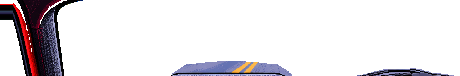
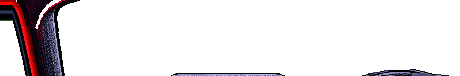
Fachos dos faróis do trânsito só na pista (não passam por paredes de túnel, outdoors e cenário), câmera acompanha subidas e descidas mais rápido, F4 sem resto do volante antigo no alto do painel
Claude-Session: https://claude.ai/code/session_01MLD9VR7gkmY4w6a9beZcp6

diff --git a/src/nightlight.ts b/src/nightlight.ts
@@ -514,7 +514,25 @@ function secondary(W: number, H: number, ox: number, oy: number, draw: (s: Canva
       t.setTransform(1, 0, 0, 1, 0, 0);
       t.globalCompositeOperation = 'source-over';
       t.clearRect(x0, y0, x1 - x0, y1 - y0);
-      beam(t, b);
+      // o facho só ilumina a pista (com um pouco do acostamento): numa curva o quadrilátero reto
+      // atravessaria paredes de túnel, guard-rails, outdoors e o cenário ao lado
+      if (roadPoly.length > 1) {
+        t.save();
+        t.beginPath();
+        for (let i = 0; i < roadPoly.length; i++) {
+          const q = roadPoly[i];
+          if (i) t.lineTo(q.x - q.w * 1.25 - ox, q.y - oy);
+          else t.moveTo(q.x - q.w * 1.25 - ox, q.y + 2 - oy);
+        }
+        for (let i = roadPoly.length - 1; i >= 0; i--) {
+          const q = roadPoly[i];
+          t.lineTo(q.x + q.w * 1.25 - ox, q.y + (i ? 0 : 2) - oy);
+        }
+        t.closePath();
+        t.clip();
+        beam(t, b);
+        t.restore();
+      } else beam(t, b);
       t.globalCompositeOperation = 'destination-out';
       for (const o of occluders) {
         if (o.idx > b.end) continue;
@@ -554,8 +572,10 @@ let sky: { x: number; y: number; r: number; floor: number; ridge?: { x0: number;
 export function setSkyLight(x: number, y: number, r: number, floor = Infinity, ridge?: { x0: number; ys: number[] }) {
   sky = { x, y, r, floor, ridge };
 }
-export function finishNight(c: CanvasRenderingContext2D, vp: { x: number; y: number; w: number; h: number; horizon: number; dash?: number }, strength: number, passers: Pass[], segLen: number, road: RoadPt[] = []) {
+let roadPoly: RoadPt[] = [];
+export function finishNight(c: CanvasRenderingContext2D, vp: { x: number; y: number; w: number; h: number; horizon: number; dash?: number }, strength: number, passers: Pass[], segLen: number, road: RoadPt[] = [], roadAll: RoadPt[] = road) {
   collecting = false;
+  roadPoly = roadAll;
   if (strength <= 0.02) {
     sky = null;
     carBeams.length = 0;

diff --git a/src/race.ts b/src/race.ts
@@ -534,11 +534,13 @@ export class Race {
     // no trecho mais perto): ao chegar numa crista ela já aponta para a descida, e não para o céu
     // olha bem pouco adiante (uns 6 segmentos, ~40 m, mais peso perto): a câmera só começa a
     // baixar quando a crista está logo ali, e acompanha a descida quando chega nela
+    // a janela cresce com a velocidade (~0,2 s à frente): rápido, a câmera chega na lombada a tempo
+    const nAhead = clamp(Math.round((this.speed * 0.2) / SEG_LEN), 6, 12);
     let ahead = 0, wsum = 0, far = 0;
-    for (let k = 1; k <= 6; k++) {
+    for (let k = 1; k <= nAhead; k++) {
       const sg = this.findSegment(this.position + k * SEG_LEN);
       const sk = (sg.p2.world.y - sg.p1.world.y) / SEG_LEN;
-      const wk = 1.25 - k / 6;
+      const wk = 1.25 - k / nAhead;
       ahead += sk * wk;
       wsum += wk;
       if (k >= 2 && k <= 5) far += sk / 4;
@@ -550,7 +552,7 @@ export class Race {
     // descida forte logo ali: aponta um pouco além dela (a pista não some embaixo do capô)
     if (far < ground) ground = lerp(ground, clamp(far, -0.8, 0), 0.35);
     const pitchTo = this.airborne ? fly * 0.3 + ground * 0.7 : ground;
-    this.pitch = lerp(this.pitch, pitchTo, Math.min(1, dt * (this.airborne ? 5 : 7)));
+    this.pitch = lerp(this.pitch, pitchTo, Math.min(1, dt * (this.airborne ? 6 : 12)));
     // ---- salto: o carro é um corpo com velocidade vertical própria. Segue o chão enquanto a
     // gravidade dá conta; num topo de lombada que cai mais rápido do que ela puxa, decola,
     // voa em parábola e cai com uma pancada proporcional à velocidade de queda ----

diff --git a/src/render3d.ts b/src/render3d.ts
@@ -450,6 +450,7 @@ export function renderRoad(c: CanvasRenderingContext2D, r: Race, view0: Viewport
 
   let maxy = vp.y + vp.h;
   const road: RoadPt[] = [];
+  const roadAll: RoadPt[] = []; // a pista inteira visível (recorte dos fachos dos faróis)
   let x = 0;
   let dx = -(base.curve * basePct);
   for (let i = base.index; i < end; i++) {
@@ -464,6 +465,7 @@ export function renderRoad(c: CanvasRenderingContext2D, r: Race, view0: Viewport
     maxy = s.p1.screen.y;
     // chão visível à frente, para o facho dos faróis seguir subidas e descidas
     if (i - base.index <= 120) road.push({ d: i - base.index, x: s.p1.screen.x, y: s.p1.screen.y, w: s.p1.screen.w });
+    roadAll.push({ d: i - base.index, x: s.p1.screen.x, y: s.p1.screen.y, w: s.p1.screen.w });
   }
 
   let nearTunnel: Segment | null = null;
@@ -615,7 +617,7 @@ export function renderRoad(c: CanvasRenderingContext2D, r: Race, view0: Viewport
   }
   setLightClip(Infinity);
   // escuridão pela intensidade da noite (entra e sai aos poucos no pôr do sol e no amanhecer)
-  finishNight(c, vp, Math.max(r.nightK, r.inTunnel > 0.5 ? 0.45 * r.inTunnel : 0), passers, SEG_LEN, road);
+  finishNight(c, vp, Math.max(r.nightK, r.inTunnel > 0.5 ? 0.45 * r.inTunnel : 0), passers, SEG_LEN, road, roadAll);
   c.restore();
 }
 

diff --git a/tools/ref/f40_cockpit2.py b/tools/ref/f40_cockpit2.py
@@ -61,6 +61,11 @@ def main():
     H, W = art.shape[:2]
     yy, xx = np.mgrid[0:H, 0:W]
     rgb = art.astype(int)
+    lum_w = rgb.mean(axis=2)  # da arte com volante (recorte do volante)
+    # vidro: tirado da arte sem volante (sem o aro na frente da estrada)
+    nwp = os.path.join(os.path.dirname(src), 'cab-nowheel.png')
+    if os.path.exists(nwp):
+        rgb = np.array(Image.open(nwp).convert('RGB')).astype(int)
     r_, g_, b_ = rgb[..., 0], rgb[..., 1], rgb[..., 2]
     lum = rgb.mean(axis=2)
     sat = rgb.max(axis=2) - rgb.min(axis=2)
@@ -98,7 +103,7 @@ def main():
     hub = np.zeros((H, W), np.uint8)
     cv2.fillPoly(hub, [np.array(HUB, np.int32)], 1)
     disc = np.hypot(xx - HUB_C[0], yy - HUB_C[1]) <= HUB_R
-    hub = (hub.astype(bool) & (lum < 120)) | disc
+    hub = (hub.astype(bool) & (lum_w < 120)) | disc
     wheel = (e_out & ~e_in) | (hub & e_out)
     wheel = cv2.morphologyEx(wheel.astype(np.uint8), cv2.MORPH_OPEN, np.ones((3, 3), np.uint8)).astype(bool)
     n, lab, st, _ = cv2.connectedComponentsWithStats(wheel.astype(np.uint8), 8)
